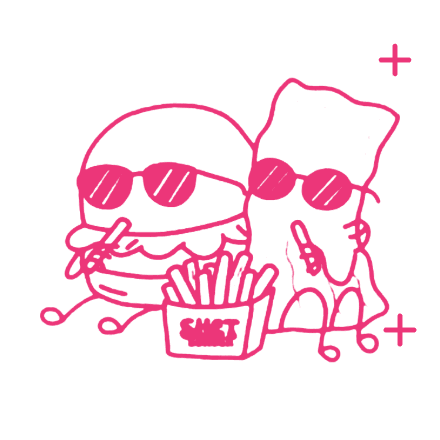
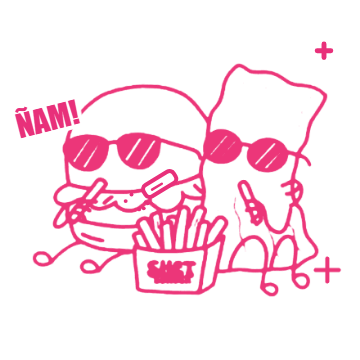
Inicio: quita la franja de info y renueva las animaciones de la crew
- Quita la franja Horario/Retiro/Delivery/Ver la carta bajo el hero.
- GIF nuevos: Ají Pepinillo con mejor ritmo y efecto picante, Bacon Beach
  en la playa (sol, olas, gaviota, cangrejo) y Los Cool comiéndose las papas.
- BFF y Bacon Lovers suman un balanceo suave; tarjetas un poco más grandes.

diff --git a/src/design/home-jetset.css b/src/design/home-jetset.css
@@ -55,18 +55,6 @@
 .ig-post__follow svg { width:1rem; height:1rem; }
 @media (prefers-reduced-motion:reduce) { .ig-post { transition:none; } }
 
-/* ── Info strip: plain, verifiable facts under the cover ── */
-.info-strip { display:grid; grid-template-columns:repeat(2,minmax(0,1fr)); border-bottom:1px solid rgb(255 255 255 / 12%); background:var(--negro); color:var(--blanco); }
-.info-strip > div { display:grid; gap:.3rem; padding:1rem 1.1rem; border-top:1px solid rgb(255 255 255 / 12%); }
-.info-strip > div:nth-child(odd) { border-right:1px solid rgb(255 255 255 / 12%); }
-.info-strip small { color:var(--rosa); font:700 .6rem/1 var(--font-body); letter-spacing:.16em; }
-.info-strip b { font:400 clamp(1.05rem,1.6vw,1.45rem)/1.05 var(--font-street); letter-spacing:.03em; }
-.info-strip > a { display:flex; align-items:center; justify-content:center; gap:.6rem; padding:1rem; border-top:1px solid rgb(255 255 255 / 12%); background:var(--rosa); color:var(--negro); font:400 clamp(1.15rem,1.7vw,1.6rem)/1 var(--font-street); letter-spacing:.04em; transition:background .2s,color .2s; }
-.info-strip > a svg { width:1.1rem; height:1.1rem; transition:transform .2s; }
-@media (hover:hover) { .info-strip > a:hover { background:var(--blanco); } }
-@media (hover:hover) { .info-strip > a:hover svg { transform:translate(3px,-3px); } }
-.info-strip > a:focus-visible { outline:3px solid var(--blanco); outline-offset:-5px; }
-
 /* ── Crew carousel: endless row of sticker cards on black ── */
 @keyframes crew-scroll { to { transform:translateX(-50%); } }
 .crew { overflow:hidden; padding:clamp(2.25rem,4vw,3.5rem) 0; background:var(--negro); color:var(--blanco); }
@@ -77,26 +65,29 @@
 .crew__viewport { -webkit-mask-image:linear-gradient(90deg,transparent,#000 6%,#000 94%,transparent); mask-image:linear-gradient(90deg,transparent,#000 6%,#000 94%,transparent); }
 .crew__track { display:flex; width:max-content; gap:clamp(.9rem,1.6vw,1.4rem); margin:0; padding:.75rem 0 1.25rem; list-style:none; animation:crew-scroll 32s linear infinite; }
 @media (hover:hover) { .crew__viewport:hover .crew__track { animation-play-state:paused; } }
-.crew__card { position:relative; flex:none; display:grid; place-items:center; width:clamp(7.5rem,11vw,9.5rem); aspect-ratio:1 / 1.12; padding:.5rem .5rem 1.9rem; border:2px solid var(--rosa); border-radius:1rem; background:var(--blanco); box-shadow:4px 4px 0 var(--magenta); transition:transform .35s var(--ease-out); }
+.crew__card { position:relative; flex:none; display:grid; place-items:center; width:clamp(9.5rem,13vw,11.75rem); aspect-ratio:1 / 1.12; padding:.5rem .5rem 1.9rem; border:2px solid var(--rosa); border-radius:1rem; background:var(--blanco); box-shadow:4px 4px 0 var(--magenta); transition:transform .35s var(--ease-out); }
 .crew__card:nth-child(odd) { transform:rotate(-2.5deg); }
 .crew__card:nth-child(even) { transform:rotate(2deg) translateY(.75rem); }
 @media (hover:hover) { .crew__card:hover { transform:rotate(0) translateY(-.4rem) scale(1.04); } }
 .crew__card picture,.crew__card img { display:block; width:100%; height:100%; }
 .crew__card img { object-fit:contain; }
+/* The friends sway together and Bacon Lovers bounce while they munch, on top of their GIFs. */
+.crew__card:is(.crew__card--sway,.crew__card--munch) picture { transform-origin:50% 88%; animation:var(--move) var(--beat) ease-in-out infinite; }
+.crew__card--sway { --move:crew-sway; --beat:1.44s; }
+.crew__card--munch { --move:crew-munch; --beat:.72s; }
+@keyframes crew-sway { 0%,100% { transform:rotate(-3deg); } 50% { transform:rotate(3deg); } }
+@keyframes crew-munch { 0%,100% { transform:scale(1,1); } 30% { transform:scale(1.04,.94); } 60% { transform:scale(.97,1.05) translateY(-4%); } }
 .crew__card > span { position:absolute; left:50%; bottom:.5rem; padding:.28rem .55rem .2rem; border-radius:999px; background:var(--negro); color:var(--rosa); font:400 .95rem/1 var(--font-street); letter-spacing:.06em; white-space:nowrap; transform:translateX(-50%); font-size:.78rem; }
 
 @media (min-width:900px) {
-  .info-strip { grid-template-columns:repeat(3,minmax(0,1fr)) auto; }
-  .info-strip > div { padding:1.15rem clamp(1.25rem,3vw,3rem); border-top:0; border-right:1px solid rgb(255 255 255 / 12%); }
-  .info-strip > a { border-top:0; padding-inline:clamp(1.5rem,3vw,3rem); }
   .crew__head { grid-template-columns:auto 1fr; align-items:end; column-gap:3rem; }
   .crew__head > span { grid-column:1 / -1; }
 }
-@media (max-width:899px) { .info-strip > a, .info-strip > div:nth-child(3) { grid-column:1 / -1; } .info-strip > div:nth-child(3) { border-right:0; } }
 @media (prefers-reduced-motion:reduce) {
   .crew__viewport { overflow-x:auto; -webkit-mask-image:none; mask-image:none; }
   .crew__track { animation:none; padding-inline:1rem; }
   .crew__card[aria-hidden] { display:none; }
+  .crew__card picture { animation:none; }
   .crew__track { margin-inline:auto; }
 }
 
@@ -118,7 +109,6 @@
 /* ── Premium pass: every section shares the header's side gutter, roomier rhythm on desktop ── */
 .home-page :is(.mood-board,.location,.site-footer) { padding-inline:var(--gutter); }
 .crew__head { max-width:none; margin-inline:0; padding-inline:var(--gutter); }
-.info-strip > div:first-child { padding-left:var(--gutter); }
 .home-page .mood-board__photo { overflow:hidden; }
 .mood-board__photo > img { transition:scale .9s var(--ease-out); }
 @media (hover:hover) { .home-page .mood-board__photo:hover > img { scale:1.045; } }

diff --git a/src/components/HomeJetset.jsx b/src/components/HomeJetset.jsx
@@ -1,4 +1,3 @@
-import { ArrowUpRight } from 'lucide-react';
 import Asterisk from './Asterisk';
 import planchaVideo from '../../assets/videos shet o fotos/video1.mp4';
 import useVideoPlayback from '../lib/useVideoPlayback';
@@ -44,10 +43,11 @@ export function ScrollMarquee({ rows = marqueeRows }) {
   </div>;
 }
 
-// The animated GIF characters, repeated to fill the loop. Reduced motion swaps them for their stills.
+// The animated GIF characters, repeated to fill the loop. The hug and bacon GIFs also get a body motion in CSS
+// (crew__card--<motion>); the pepper, Los Cool and beach GIFs carry their own story. Reduced motion swaps them for still, unmoving images.
 const crew = [
-  { src: '/assets/caricaturas/abrazo.gif', still: '/assets/caricaturas/abrazo-still.png', name: 'BFF', alt: 'Lata y hamburguesa SHET abrazándose' },
-  { src: '/assets/caricaturas/tocino.gif', still: '/assets/caricaturas/tocino-still.png', name: 'BACON LOVERS', alt: 'Hamburguesa SHET comiendo tocino' },
+  { src: '/assets/caricaturas/abrazo.gif', still: '/assets/caricaturas/abrazo-still.png', name: 'BFF', motion: 'sway', alt: 'Lata y hamburguesa SHET abrazándose' },
+  { src: '/assets/caricaturas/tocino.gif', still: '/assets/caricaturas/tocino-still.png', name: 'BACON LOVERS', motion: 'munch', alt: 'Hamburguesa SHET comiendo tocino' },
   { src: '/assets/caricaturas/pepinillo.gif', still: '/assets/caricaturas/pepinillo-still.png', name: 'AJÍ PEPINILLO', alt: 'Hamburguesa SHET se come un ají y arde por lo picante' },
   { src: '/assets/caricaturas/cool.gif', still: '/assets/caricaturas/cool-still.png', name: 'LOS COOL', alt: 'Hamburguesa y tocino SHET con lentes de sol y papas fritas' },
   { src: '/assets/caricaturas/playa.gif', still: '/assets/caricaturas/playa-still.png', name: 'BACON BEACH', alt: 'Tocino SHET descansando bajo un quitasol' },
@@ -56,7 +56,7 @@ const crew = [
 const loop = [0, 1, 2].flatMap(round => crew.map(member => ({ ...member, key: `${member.name}-${round}`, hidden: round > 0 })));
 
 function CrewCard({ member }) {
-  return <li className="crew__card" aria-hidden={member.hidden || undefined}>
+  return <li className={member.motion ? `crew__card crew__card--${member.motion}` : 'crew__card'} aria-hidden={member.hidden || undefined}>
     <picture>
       <source media="(prefers-reduced-motion: reduce)" srcSet={member.still}/>
       <img src={member.src} alt={member.hidden ? '' : member.alt} width="160" height="160" loading="lazy" decoding="async"/>
@@ -80,12 +80,3 @@ export function CrewCarousel() {
   </section>;
 }
 
-/** Plain facts strip: when we open, where to pick up, how delivery works. */
-export function InfoStrip({ openingTime }) {
-  return <section className="info-strip" aria-label="Información de SHET Burger">
-    <div><small>HORARIO</small><b>ABRIMOS {openingTime} HRS</b></div>
-    <div><small>RETIRO</small><b>RÍO LOA 130 · NONGUÉN</b></div>
-    <div><small>DELIVERY</small><b>COSTO SEGÚN TU POBLACIÓN</b></div>
-    <a href="/delivery" data-route>VER LA CARTA <ArrowUpRight aria-hidden="true"/></a>
-  </section>;
-}

diff --git a/src/components/HomePage.jsx b/src/components/HomePage.jsx
@@ -1,12 +1,10 @@
 import Hero from './Hero';
 import { ShetMoodBoard } from './HomeMedia';
-import { CrewCarousel, InfoStrip, ScrollMarquee, TapeVideo } from './HomeJetset';
+import { CrewCarousel, ScrollMarquee, TapeVideo } from './HomeJetset';
 import HomeCommunity from './HomeCommunity';
 import LocationSection from './LocationSection';
 import FooterCTA from './FooterCTA';
-import useOpeningTime from '../lib/openingTime';
 
 export default function HomePage({ content }) {
-  const openingTime = useOpeningTime();
-  return <><Hero content={content}/><InfoStrip openingTime={openingTime}/><ScrollMarquee/><ShetMoodBoard/><CrewCarousel/><TapeVideo/><HomeCommunity/><LocationSection/><FooterCTA footerOnly/></>;
+  return <><Hero content={content}/><ScrollMarquee/><ShetMoodBoard/><CrewCarousel/><TapeVideo/><HomeCommunity/><LocationSection/><FooterCTA footerOnly/></>;
 }
